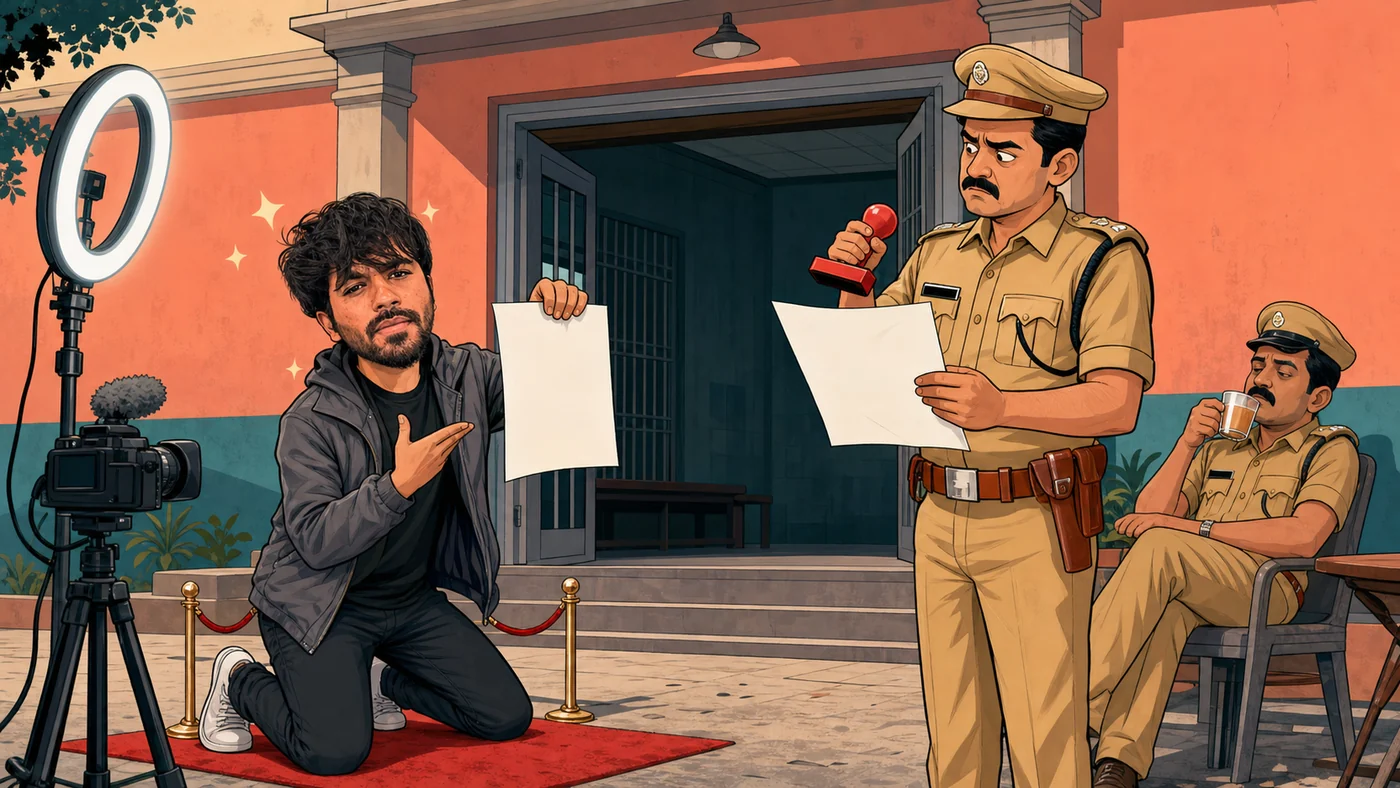
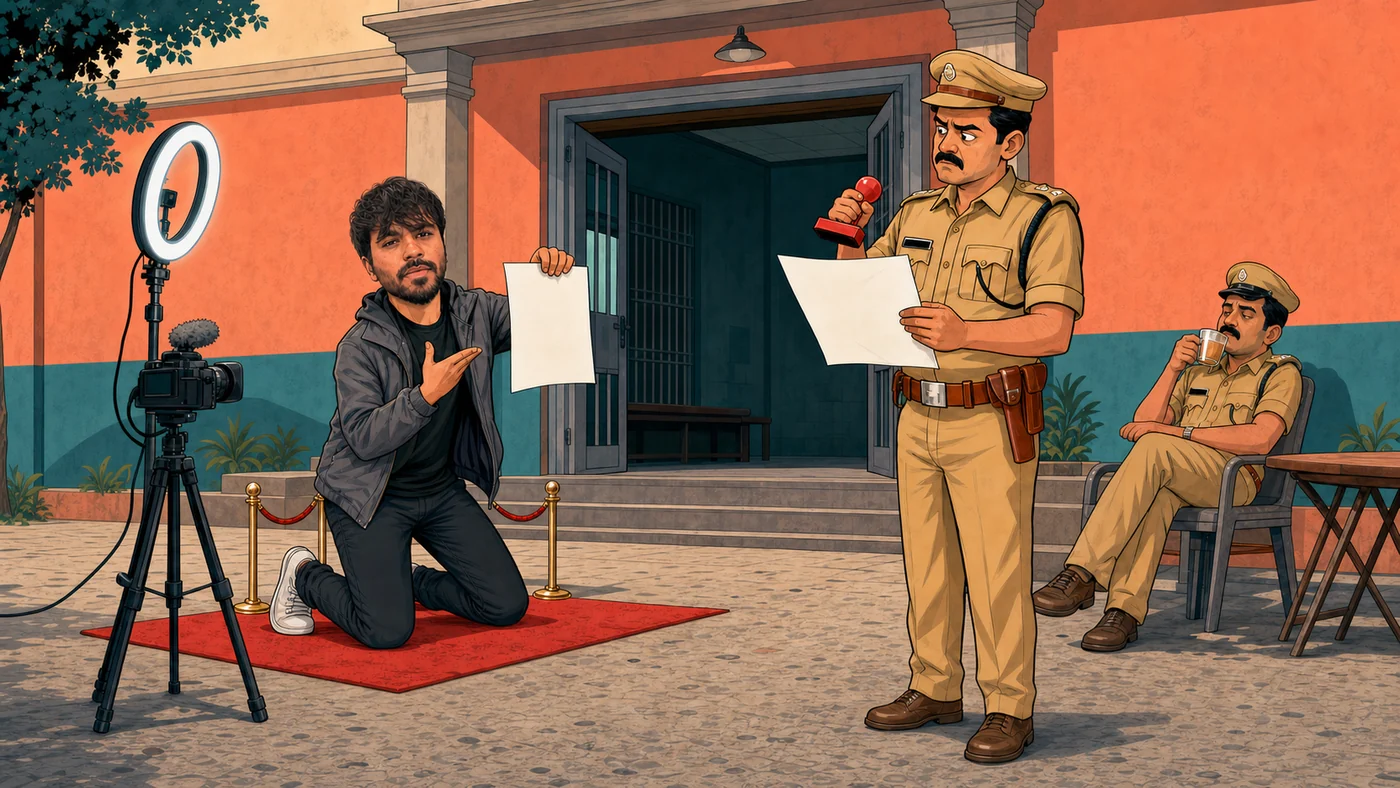
Refine satire controls and fasting evidence

diff --git a/app.js b/app.js
@@ -45,33 +45,48 @@
     });
   }
 
-  const shareButton = document.querySelector("#share-button");
-  const shareFeedback = document.querySelector("#share-feedback");
-  const shareText = "Is Sonam Wangchuk dead yet? No. The fast continues; so does the publicity cycle.";
+  const samosaButton = document.querySelector("#samosa-button");
+  const samosaFeedback = document.querySelector("#samosa-feedback");
+  const samosaCounters = document.querySelectorAll("[data-samosa-count]");
+  const initialSamosaCount = 404;
+  let samosaCount = initialSamosaCount;
+  let samosasDelivered = 0;
 
-  async function sharePage() {
-    try {
-      if (navigator.share) {
-        await navigator.share({ title: document.title, text: shareText, url: window.location.href });
-        shareFeedback.textContent = "Shared. The publicity cycle thanks you.";
-        return;
-      }
-      await navigator.clipboard.writeText(`${shareText} ${window.location.href}`);
-      shareFeedback.textContent = "Link copied. Attention successfully redistributed.";
-    } catch (error) {
-      if (error && error.name === "AbortError") return;
-      shareFeedback.textContent = "Sharing failed. Even the publicity machine needs maintenance.";
+  const renderSamosas = () => {
+    samosaCounters.forEach((node) => {
+      node.textContent = String(samosaCount);
+    });
+    if (samosaFeedback) {
+      samosaFeedback.textContent = `Imaginary samosas delivered this visit: ${samosasDelivered}. Counter: ${samosaCount}.`;
     }
+  };
+
+  if (samosaButton) {
+    samosaButton.addEventListener("click", () => {
+      samosaCount += 1;
+      samosasDelivered += 1;
+      renderSamosas();
+      samosaButton.classList.remove("is-feeding");
+      void samosaButton.offsetWidth;
+      samosaButton.classList.add("is-feeding");
+      samosaButton.textContent = samosasDelivered === 1 ? "Feed Dipke another samosa +1" : `Feed another samosa +1`;
+    });
   }
 
-  if (shareButton) shareButton.addEventListener("click", sharePage);
+  renderSamosas();
 
   window.DeadYetStatus = Object.freeze({
     fastStart: FAST_START,
     statusDate: STATUS_DATE,
     verifiedFastDay,
     inclusiveDay,
-    samosaCount: 404,
+    initialSamosaCount,
+    get samosaCount() {
+      return samosaCount;
+    },
+    get samosasDelivered() {
+      return samosasDelivered;
+    },
     samosaCountIsSatire: true
   });
 })();

diff --git a/index.html b/index.html
@@ -11,8 +11,8 @@
   <meta property="og:image" content="https://sonamwangchuk1234.github.io/is-sonam-wangchuk-dead-yet/assets/wangchuk-awkward-cot.webp">
   <meta name="twitter:card" content="summary_large_image">
   <title>Is Sonam Wangchuk Dead Yet? — Satire Tracker</title>
-  <link rel="stylesheet" href="styles.css?v=4">
-  <script src="app.js?v=4" defer></script>
+  <link rel="stylesheet" href="styles.css?v=5">
+  <script src="app.js?v=5" defer></script>
 </head>
 <body>
   <a class="skip-link" href="#main">Skip to status</a>
@@ -50,9 +50,9 @@
           </p>
           <div class="hero__actions">
             <a class="button" href="#sources">Check the receipts</a>
-            <button class="button button--ghost" id="share-button" type="button">Share the spectacle</button>
+            <button class="button button--ghost" id="samosa-button" type="button">Feed Dipke a samosa +1</button>
           </div>
-          <p class="microcopy" id="share-feedback" aria-live="polite">Satire and political opinion, not medical reporting.</p>
+          <p class="microcopy" id="samosa-feedback" aria-live="polite">Imaginary samosas delivered this visit: 0.</p>
         </div>
 
         <figure class="hero-art">
@@ -86,8 +86,8 @@
         <article class="metric metric--dark">
           <span class="metric__index">04</span>
           <span class="metric__label">Samosas eaten by Dipke*</span>
-          <strong>404</strong>
-          <small><b>SATIRE ONLY.</b> Entirely invented metric; no samosa audit was conducted.</small>
+          <strong data-samosa-count>404</strong>
+          <small>Interactive site gag. No samosa auditor was present.</small>
         </article>
       </section>
 
@@ -97,14 +97,13 @@
           <figcaption><span>मैदानी अवलोकन ०२</span> कैमरा पहले, केस बाद में।</figcaption>
         </figure>
         <div class="dipke-gag__copy">
-          <p class="eyebrow">कल्पित गिरफ़्तारी फ़ाइल · व्यंग्य</p>
+          <p class="eyebrow">गिरफ़्तारी फ़ाइल · व्यंग्य</p>
           <h2 id="dipke-title">अभिजीत दिपके ने पुलिस से <mark>“X” बार</mark> कहा:<br>“मुझे गिरफ़्तार करो—मुझे मशहूर होना है!”</h2>
           <div class="arrest-meter" aria-label="गिरफ़्तारी की काल्पनिक गुहारें: X">
             <strong>X</strong>
-            <span><b>गिरफ़्तारी की काल्पनिक गुहारें</b><small>वास्तविक संख्या नहीं</small></span>
+            <span><b>गिरफ़्तारी की गुहारें</b><small>वेबसाइट का “X” काउंटर</small></span>
           </div>
           <blockquote>पुलिस: “पहले कोई अपराध तो लाइए; कैमरा एंगल एफ़आईआर नहीं होता। सलाख़ें पब्लिसिटी स्टंट की प्रॉप नहीं हैं।”</blockquote>
-          <p class="fiction-label"><b>पूर्णतः काल्पनिक व्यंग्य:</b> संख्या, संवाद और दृश्य गढ़े हुए हैं—इन्हें वास्तविक घटना या आरोप न समझें।</p>
         </div>
       </section>
 
@@ -143,7 +142,7 @@
           </details>
           <details>
             <summary>Is the fast fake?</summary>
-            <p>We have no evidence of that. “Performance” and “LARPing” are satirical judgments about presentation, not claims that he is secretly eating.</p>
+            <p><strong>Our editorial suspicion: probably—but it is not medically proven.</strong><br>The reporting linked here provides no independently published ketone result. Blood pressure, glucose and weight loss are nonspecific; none establishes continuous fasting.<br><br>Blood beta-hydroxybutyrate (BHB) or urinary ketones would document ketosis more directly, but even ketosis can follow carbohydrate restriction or exogenous ketones, so it would support—not prove—a water-only fast.<br><a class="medical-link" href="#sources">Medical sources 06–08 ↓</a></p>
           </details>
           <details>
             <summary>Did Dipke really eat 404 samosas?</summary>
@@ -177,7 +176,7 @@
 
       <section class="sources card" id="sources" aria-labelledby="sources-title">
         <div class="section-head section-head--tight">
-          <div><p class="eyebrow">REALITY RECEIPTS</p><h2 id="sources-title">Sources behind the “NO.”</h2></div>
+          <div><p class="eyebrow">REALITY RECEIPTS</p><h2 id="sources-title">Status and physiology sources</h2></div>
           <p>Last manually checked <time datetime="2026-07-16T03:13:57Z">16 July 2026, 03:13 UTC</time>.</p>
         </div>
         <div class="source-list">
@@ -186,6 +185,9 @@
           <a href="https://frontline.thehindu.com/politics/sonam-wangchuk-hunger-strike/article71223988.ece" target="_blank" rel="noopener noreferrer"><b>03</b><span><strong>Why Wangchuk is protesting</strong><small>Frontline · 15 Jul 2026</small></span><i>↗</i></a>
           <a href="https://www.thehindu.com/news/national/government-cruel-for-ignoring-wangchuks-fast-says-dipke-as-activist-completes-day-18-of-hunger-strike/article71224964.ece" target="_blank" rel="noopener noreferrer"><b>04</b><span><strong>Day 18 and 24-hour medical vigilance</strong><small>The Hindu / PTI · 15 Jul 2026</small></span><i>↗</i></a>
           <a href="https://x.com/Wangchuk66/status/2074880976069755006" target="_blank" rel="noopener noreferrer"><b>05</b><span><strong>Wangchuk’s own strike update</strong><small>@Wangchuk66 on X</small></span><i>↗</i></a>
+          <a href="https://pmc.ncbi.nlm.nih.gov/articles/PMC11494232/" target="_blank" rel="noopener noreferrer"><b>06</b><span><strong>Prolonged-fasting review: ketones, glucose and blood pressure</strong><small>Nutrition Reviews · human-trial review</small></span><i>↗</i></a>
+          <a href="https://pmc.ncbi.nlm.nih.gov/articles/PMC11206495/" target="_blank" rel="noopener noreferrer"><b>07</b><span><strong>Long-term fasting ketosis in 1,610 subjects</strong><small>Nutrients · blood and urine ketone measurements</small></span><i>↗</i></a>
+          <a href="https://pmc.ncbi.nlm.nih.gov/articles/PMC11089855/" target="_blank" rel="noopener noreferrer"><b>08</b><span><strong>What blood and urine ketone tests actually show</strong><small>Diabetes Technology &amp; Therapeutics · measurement review</small></span><i>↗</i></a>
         </div>
       </section>
     </main>

diff --git a/styles.css b/styles.css
@@ -60,6 +60,8 @@ h1 { max-width: 600px; margin: 0; font-size: clamp(2.3rem,3.6vw,3.45rem); line-h
 .button:hover,.button:focus-visible { color: var(--ink); background: var(--cyan); }
 .button--ghost { color: var(--ink); background: white; }
 .button--cyan { color: var(--ink); border-color: var(--cyan-dark); background: var(--cyan); }
+.button.is-feeding { animation: samosa-pop .38s ease; background: var(--coral); }
+@keyframes samosa-pop { 50% { transform: translateY(-3px) rotate(-1deg) scale(1.04); } }
 .microcopy { min-height: 1.2em; margin: 9px 0 0; color: #555d64; font: .69rem/1.45 var(--mono); }
 .hero-art { position: relative; min-width: 0; margin: 0; border-left: 1px solid var(--line); background: var(--soft); }
 .hero-art img { display: block; width: 100%; height: 100%; min-height: 410px; object-fit: cover; object-position: center; }
@@ -82,7 +84,7 @@ h1 { max-width: 600px; margin: 0; font-size: clamp(2.3rem,3.6vw,3.45rem); line-h
 .streak,.faq,.quip,.critique,.sources { padding: 22px; }
 .dipke-gag { display: grid; grid-template-columns: minmax(0,1.24fr) minmax(350px,.76fr); overflow: hidden; color: white; background: var(--ink); }
 .dipke-gag__art { position: relative; min-width: 0; margin: 0; border-right: 1px solid #41474d; background: #f3c7a1; }
-.dipke-gag__art img { display: block; width: 100%; height: 100%; min-height: 430px; object-fit: cover; object-position: center; }
+.dipke-gag__art img { display: block; width: 100%; height: 100%; min-height: 430px; object-fit: contain; object-position: center; }
 .dipke-gag__art figcaption { position: absolute; right: 12px; bottom: 12px; left: 12px; display: flex; gap: 10px; align-items: center; padding: 8px 10px; color: var(--ink); background: rgba(255,255,255,.94); border-left: 4px solid var(--cyan); font: 700 .76rem/1.35 "Noto Sans Devanagari",var(--sans); }
 .dipke-gag__art figcaption span { flex: 0 0 auto; font-size: .68rem; }
 .dipke-gag__copy { min-width: 0; padding: clamp(22px,3vw,34px); font-family: "Noto Sans Devanagari",var(--sans); }
@@ -95,8 +97,6 @@ h1 { max-width: 600px; margin: 0; font-size: clamp(2.3rem,3.6vw,3.45rem); line-h
 .arrest-meter b { font-size: .9rem; }
 .arrest-meter small { color: #bac1c6; font-size: .7rem; }
 .dipke-gag blockquote { margin: 0 0 13px; padding: 13px 14px; color: var(--ink); background: var(--coral); border-left: 5px solid var(--cyan); font-size: 1.02rem; font-weight: 700; line-height: 1.45; }
-.fiction-label { margin: 0; color: #c8ced2; font-size: .73rem; line-height: 1.5; }
-.fiction-label b { color: var(--cyan); }
 .section-head { display: grid; grid-template-columns: 1.2fr .8fr; gap: 30px; align-items: end; margin-bottom: 18px; }
 .section-head--tight { margin-bottom: 12px; }
 .section-head h2,.faq h2,.quip h2,.critique h2 { margin: 0; font-size: clamp(1.45rem,2.5vw,2.45rem); line-height: 1.03; letter-spacing: -.045em; }
@@ -117,6 +117,8 @@ h1 { max-width: 600px; margin: 0; font-size: clamp(2.3rem,3.6vw,3.45rem); line-h
 .faq details:last-child { border-bottom: 1px solid var(--line); }
 .faq summary { padding: 12px 4px; font-size: .88rem; font-weight: 700; cursor: pointer; }
 .faq details p { margin: 0; padding: 0 26px 13px 4px; color: var(--muted); font-size: .79rem; }
+.faq details p a { color: var(--cyan-dark); font-weight: 700; }
+.faq .medical-link { display: inline-block; margin-top: 6px; }
 .quip { display: flex; flex-direction: column; justify-content: space-between; background: var(--coral); }
 .quip blockquote { min-height: 5em; margin: 28px 0 18px; padding: 14px 0 14px 16px; border-left: 5px solid var(--ink); font-size: clamp(1.1rem,2vw,1.55rem); font-weight: 800; line-height: 1.18; }
 .quip.is-spinning blockquote { animation: blink .28s steps(2) 2; }